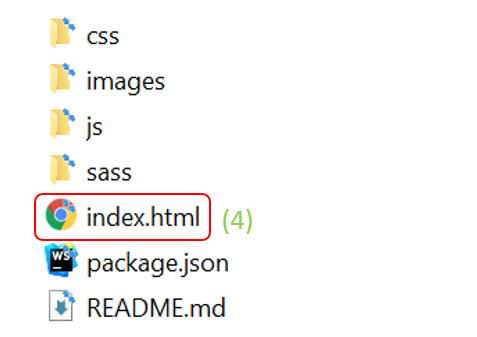
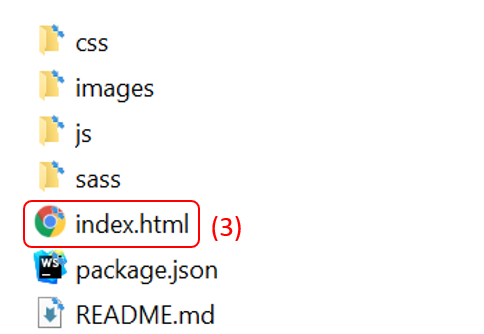
fix bugs readme

Changed region(s): [[0.0294, 0.0299, 0.5283, 0.988]]

diff --git a/README.md b/README.md
@@ -1,15 +1,19 @@
 # NT_pochelib
 
 ## How to install
-1. Click on the top right button "code" (step 1).
-2. Choose "Download zip" (step 2).
+1. Click on the top right button "code" (1).
+2. Choose "Download zip" (2).
 3. On your computer, go to the folder dowloaded.
-4. Unzip it and open the file "index.html" with your browser (step 3).
+4. Unzip it and open the file "index.html" with your browser (3).
 
-<img src="./images/download_code_source.png" width="40%" height="300px">
-<img src="./images/step_install.png" width="40%" height="300px">
+<img src="./images/download_code_source.png" width="40%" height="250px" style="float:left">
 
-#### Other options:
+<img src="./images/step_install.png" width="40%" height="250px">
+
+### Other options:
+- clone the project
+    1. Click on the file icon to the right of url (the adress is automatically copied) (4).
+    2. Open your terminal and type "git clone url@github.com:yourFolder" (where "url" is the one you copied before and "yourFolder" the new folder created where you will have the content of the repository)
 - Open with Github desktop (5).
 
 ## How to use 
@@ -17,4 +21,6 @@ Click on the button "Ajouter un livre" to display the search form, then enter th
 You can add the book to your favourite list or removed it.
 
 ## Technologies used
-HTML/CSS, JAVASCRIPT, SASS.
+- HTML/CSS
+- JAVASCRIPT
+- SASS.
